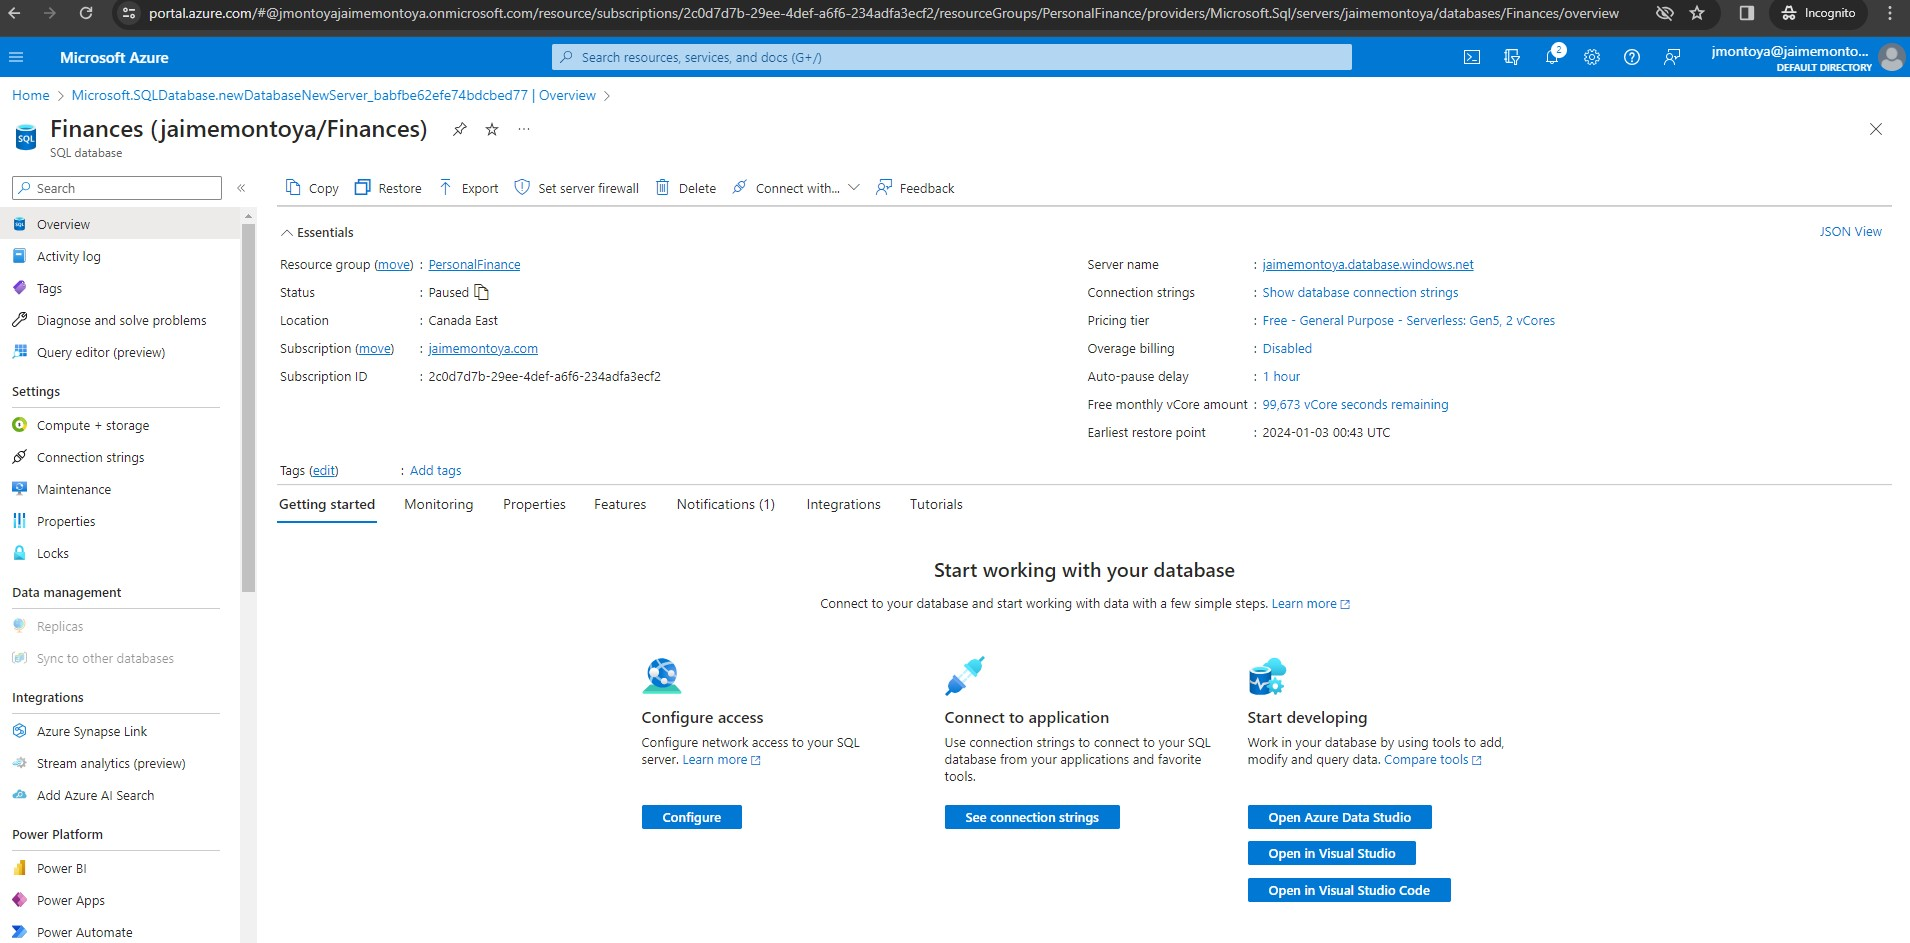
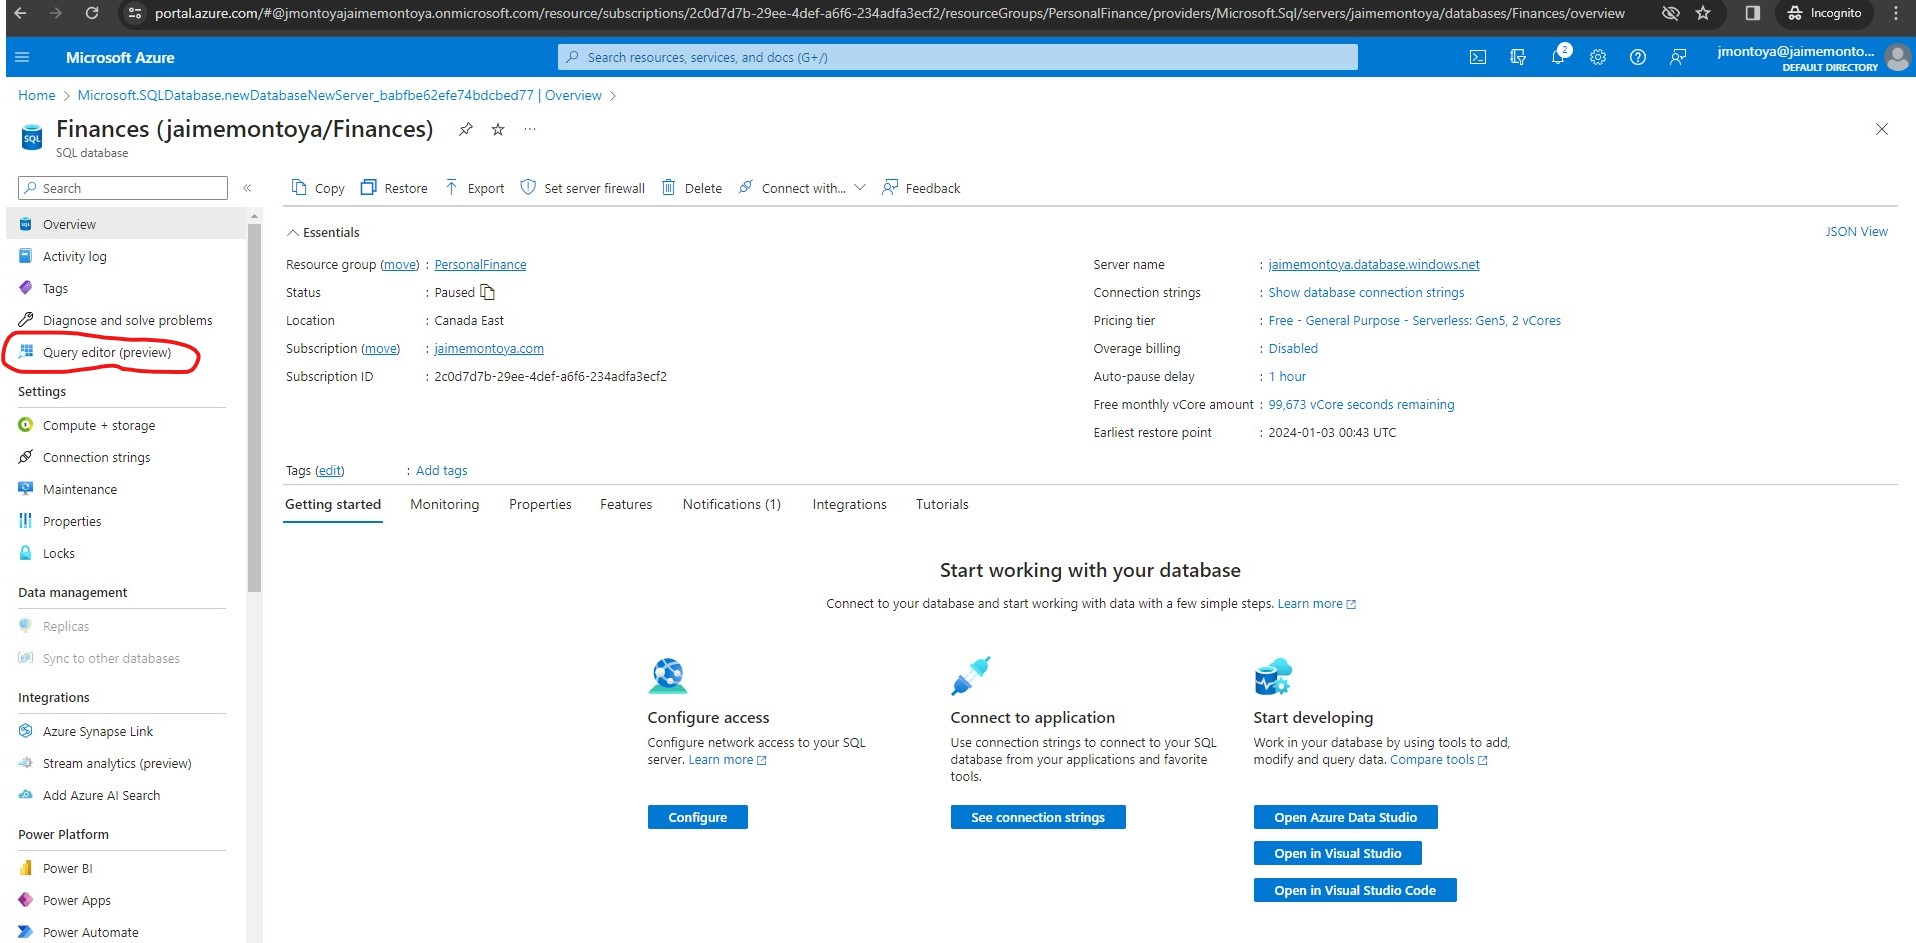
Highlight link.

diff --git a/blog/2023/12/17/11/41/book-info-20231217-1141.php b/blog/2023/12/17/11/41/book-info-20231217-1141.php
@@ -1,4 +1,4 @@
 <?php
   $index->content .= 
-           "<p>An Azure subscription was required. I visited <a href=\"https://azure.microsoft.com/free\">https://azure.microsoft.com/free</a> and signed in with a Microsoft account that I already had. That took me to the Azure portal. I selected <span class=\"cod\">＋ Create</span> a resource:</p><div><img src=\"/blog/2023/12/17/11/41/img/createAResource.jpg\" alt=\"Create a resource\" width=\"1161\" height=\"975\"></div><p>I searched for <span class=\"cod\">Azure SQL</span>:</p><div><img src=\"/blog/2023/12/17/11/41/img/searchForAzureSQL.jpg\" alt=\"Create a resource\" width=\"1206\" height=\"926\"></div><p>I clicked <span class=\"cod\">Create Azure SQL</span>:</p><div><img src=\"/blog/2023/12/17/11/41/img/createAzureSQLResource.jpg\" alt=\"Create Azure SQL Resource\" width=\"1904\" height=\"974\"></div><p>I clicked <span class=\"cod\">Start with an Azure free trial</span> to get $200 free credit toward Azure products and services, plus 12 months of popular free services:</p><div><img src=\"/blog/2023/12/17/11/41/img/startWithAnAzureFreeTrial.jpg\" alt=\"Start with an Azure free trial\" width=\"1898\" height=\"642\"></div><p>I clicked <span class=\"cod\">Start free</span>:</p><div><img src=\"/blog/2023/12/17/11/41/img/startFree.jpg\" alt=\"Start free\" width=\"1052\" height=\"733\"></div><p>I received a message saying that I already had an Azure account. I clicked <span class=\"cod\">Sign up for a Pay-As-You-Go subscription.</span></p><div><img src=\"/blog/2023/12/17/11/41/img/showThatIAlreadyHadAnAzureAccount.jpg\" alt=\"Show that I already had an Azure account\" width=\"1846\" height=\"392\"></div><p>I clicked <span class=\"cod\">Upgrade your account.</span></p><div><img src=\"/blog/2023/12/17/11/41/img/clickUpgradeYourAccount.jpg\" alt=\"Click Upgrade your account\" width=\"1260\" height=\"384\"></div><p>I provided my phone number for identity purposes and clicked <span class=\"cod\">Text me</span>:</p><div><img src=\"/blog/2023/12/17/11/41/img/providePhoneNumberForIdentityPurposes.jpg\" alt=\"Provide phone number for identity purposes\" width=\"1911\" height=\"526\"></div><p>I provided the code that I received on my phone and clicked <span class=\"cod\">Verify code</span>:</p><div><img src=\"/blog/2023/12/17/11/41/img/clickVerifyCode.jpg\" alt=\"Click Verify code\" width=\"1048\" height=\"648\"></div><p>I provided a subscription name, chose the <span class=\"cod\">Basic</span> support plan, and clicked <span class=\"cod\">Upgrade to pay as you go</span>:</p><div><img src=\"/blog/2023/12/17/11/41/img/upgradeToPayAsYouGo.jpg\" alt=\"Upgrade to pay as you go\" width=\"1909\" height=\"977\"></div><p>I received a message revealing that I had upgraded my account successfully. I followed the steps above one more time, to <span class=\"cod\">Create Azure SQL</span> resource. I reviewed the Azure SQL options that were available, and then in the <span class=\"cod\">SQL databases</span> tile, I ensured that <span class=\"cod\">Single database</span> was selected. Finally, I clicked <span class=\"cod\">Create</span> in the <span class=\"cod\">SQL databases</span> section, keeping <span class=\"cod\">Single instance</span> as the <span class=\"cod\">Resource type</span>:</p><div><img src=\"/blog/2023/12/17/11/41/img/createSQLDatabase.jpg\" alt=\"Create SQL managed instance\" width=\"1896\" height=\"821\"></div><p>I entered the following values on the Create SQL Database page, and left all other properties with their defaul setting:</p><ul><li><span class=\"bold\">Subscription:</span> jaimemontoya.com (because that was the name I gave to my Azure subscription).<li><span class=\"bold\">Resource group:</span> PersonalFinance (I created a new resource group with a name of my choice. A resource group is a container that holds related resources for an Azure solution.)<li><span class=\"bold\">Database name:</span> Finances<li><span class=\"bold\">Server:</span> I selected <span class=\"cod\">Create new</span> and created a new server with a unique name (<span class=\"cod\">jaimemontoya</span>) in the <span class=\"cod\">(Canada) Canada East</span> location. I used <span class=\"cod\">SQL authentication</span> and specified the name I wanted as my server admin login and a suitably complex password. Then I clicked <span class=\"cod\">OK</span>.<div><img src=\"/blog/2023/12/17/11/41/img/createSQLDatabaseServer.jpg\" alt=\"Create SQL Database Server\" width=\"1908\" height=\"986\"></div><li><span class=\"bold\">Want to use SQL elastic pool?:</span> No<li><span class=\"bold\">Workload environment:</span> Development<li><span class=\"bold\">Compute + storage:</span> Left unchanged<li><span class=\"bold\">Backup storage redundancy:</span> Locally-redundant backup storage</ul><p>I clicked <span class=\"cod\">Apply offer (Preview)</span>:</p><div><img src=\"/blog/2023/12/17/11/41/img/applyOffer.jpg\" alt=\"Apply Offer\" width=\"1037\" height=\"964\"></div><p>After applying the free database offer, the cost per month changed to <span class=\"cod\">0.00 USD</span>:</p><div><img src=\"/blog/2023/12/17/11/41/img/freeDatabaseOfferApplied.jpg\" alt=\"Free database offer applied\" width=\"1031\" height=\"966\"></div><p>Create SQL Database, Basics tab, part 1 of 2:</p><div><img src=\"/blog/2023/12/17/11/41/img/createSQLDatabaseBasicsTabPart1of2.jpg\" alt=\"Create SQL Database, Basics tab, part 1 of 2\" width=\"1896\" height=\"821\"></div><p>Create SQL Database, Basics tab, part 2 of 2:</p><div><img src=\"/blog/2023/12/17/11/41/img/createSQLDatabaseBasicsTabPart2of2.jpg\" alt=\"Create SQL Database, Basics tab, part 2 of 2\" width=\"825\" height=\"965\"></div><p>Create SQL Database, Networking tab:</p><div><img src=\"/blog/2023/12/17/11/41/img/createSQLDatabaseNetworkingTab.jpg\" alt=\"Create SQL Database, Networking tab\" width=\"1031\" height=\"963\"></div><p>Create SQL Database, Security tab, part 1 of 2:</p><div><img src=\"/blog/2023/12/17/11/41/img/createSQLDatabaseSecurityTabPart1of2.jpg\" alt=\"Create SQL Database, Security tab, part 1 of 2\" width=\"1027\" height=\"965\"></div><p>Create SQL Database, Security tab, part 2 of 2:</p><div><img src=\"/blog/2023/12/17/11/41/img/createSQLDatabaseSecurityTabPart2of2.jpg\" alt=\"Create SQL Database, Security tab, part 2 of 2\" width=\"1026\" height=\"966\"></div><p>Create SQL Database, Additional settings tab:</p><div><img src=\"/blog/2023/12/17/11/41/img/createSQLDatabaseAdditionalSettingsTab.jpg\" alt=\"Create SQL Database, Additional settings tab\" width=\"1026\" height=\"964\"></div><p>Create SQL Database, Tags tab:</p><div><img src=\"/blog/2023/12/17/11/41/img/createSQLDatabaseTagsTab.jpg\" alt=\"Create SQL Database, Tags tab\" width=\"1025\" height=\"963\"></div><p>Create SQL Database, Review + create tab, part 1 of 2:</p><div><img src=\"/blog/2023/12/17/11/41/img/createSQLDatabaseCreateAndReviewTabPart1Of2.jpg\" alt=\"Create SQL Database, Review + create tab, part 1 of 2\" width=\"1025\" height=\"961\"></div><p>Create SQL Database, Review + create tab, part 2 of 2. I clicked <span class=\"cod\">Create</span> to complete the process and create the database using the provided configurations:</p><div><img src=\"/blog/2023/12/17/11/41/img/createSQLDatabaseCreateAndReviewTabPart2Of2.jpg\" alt=\"Create SQL Database, Review + create tab, part 2 of 2\" width=\"504\" height=\"979\"></div><p>The <span class=\"cod\">Deployment in progress</span> message appeared:</p><div><img src=\"/blog/2023/12/17/11/41/img/showDeploymentInProgress.jpg\" alt=\"Show Deployment in progress\" width=\"1904\" height=\"667\"></div><p>Finally, I received the message notifying that the deployment was complete. I clicked <span class=\"cod\">Go to resource</span>:</p><div><img src=\"/blog/2023/12/17/11/41/img/deploymentComplete.jpg\" alt=\"Deployment complete\" width=\"1901\" height=\"713\"></div><p>My SQL Database resource was successfully created and available:</p><div><img src=\"/blog/2023/12/17/11/41/img/showDatabaseCreatedAndAvailable.jpg\" alt=\"Show database created and available\" width=\"1910\" height=\"943\"></div><div>Published: 11:41 AM GMT · Dec 17, 2023</div>\n";
+           "<p>An Azure subscription was required. I visited <a href=\"https://azure.microsoft.com/free\">https://azure.microsoft.com/free</a> and signed in with a Microsoft account that I already had. That took me to the Azure portal. I selected <span class=\"cod\">＋ Create</span> a resource:</p><div><img src=\"/blog/2023/12/17/11/41/img/createAResource.jpg\" alt=\"Create a resource\" width=\"1161\" height=\"975\"></div><p>I searched for <span class=\"cod\">Azure SQL</span>:</p><div><img src=\"/blog/2023/12/17/11/41/img/searchForAzureSQL.jpg\" alt=\"Create a resource\" width=\"1206\" height=\"926\"></div><p>I clicked <span class=\"cod\">Create Azure SQL</span>:</p><div><img src=\"/blog/2023/12/17/11/41/img/createAzureSQLResource.jpg\" alt=\"Create Azure SQL Resource\" width=\"1904\" height=\"974\"></div><p>I clicked <span class=\"cod\">Start with an Azure free trial</span> to get $200 free credit toward Azure products and services, plus 12 months of popular free services:</p><div><img src=\"/blog/2023/12/17/11/41/img/startWithAnAzureFreeTrial.jpg\" alt=\"Start with an Azure free trial\" width=\"1898\" height=\"642\"></div><p>I clicked <span class=\"cod\">Start free</span>:</p><div><img src=\"/blog/2023/12/17/11/41/img/startFree.jpg\" alt=\"Start free\" width=\"1052\" height=\"733\"></div><p>I received a message saying that I already had an Azure account. I clicked <span class=\"cod\">Sign up for a Pay-As-You-Go subscription.</span></p><div><img src=\"/blog/2023/12/17/11/41/img/showThatIAlreadyHadAnAzureAccount.jpg\" alt=\"Show that I already had an Azure account\" width=\"1846\" height=\"392\"></div><p>I clicked <span class=\"cod\">Upgrade your account.</span></p><div><img src=\"/blog/2023/12/17/11/41/img/clickUpgradeYourAccount.jpg\" alt=\"Click Upgrade your account\" width=\"1260\" height=\"384\"></div><p>I provided my phone number for identity purposes and clicked <span class=\"cod\">Text me</span>:</p><div><img src=\"/blog/2023/12/17/11/41/img/providePhoneNumberForIdentityPurposes.jpg\" alt=\"Provide phone number for identity purposes\" width=\"1911\" height=\"526\"></div><p>I provided the code that I received on my phone and clicked <span class=\"cod\">Verify code</span>:</p><div><img src=\"/blog/2023/12/17/11/41/img/clickVerifyCode.jpg\" alt=\"Click Verify code\" width=\"1048\" height=\"648\"></div><p>I provided a subscription name, chose the <span class=\"cod\">Basic</span> support plan, and clicked <span class=\"cod\">Upgrade to pay as you go</span>:</p><div><img src=\"/blog/2023/12/17/11/41/img/upgradeToPayAsYouGo.jpg\" alt=\"Upgrade to pay as you go\" width=\"1909\" height=\"977\"></div><p>I received a message revealing that I had upgraded my account successfully. I followed the steps above one more time, to <span class=\"cod\">Create Azure SQL</span> resource. I reviewed the Azure SQL options that were available, and then in the <span class=\"cod\">SQL databases</span> tile, I ensured that <span class=\"cod\">Single database</span> was selected. Finally, I clicked <span class=\"cod\">Create</span> in the <span class=\"cod\">SQL databases</span> section, keeping <span class=\"cod\">Single instance</span> as the <span class=\"cod\">Resource type</span>:</p><div><img src=\"/blog/2023/12/17/11/41/img/createSQLDatabase.jpg\" alt=\"Create SQL managed instance\" width=\"1896\" height=\"821\"></div><p>I entered the following values on the Create SQL Database page, and left all other properties with their defaul setting:</p><ul><li><span class=\"bold\">Subscription:</span> jaimemontoya.com (because that was the name I gave to my Azure subscription).<li><span class=\"bold\">Resource group:</span> PersonalFinance (I created a new resource group with a name of my choice. A resource group is a container that holds related resources for an Azure solution.)<li><span class=\"bold\">Database name:</span> Finances<li><span class=\"bold\">Server:</span> I selected <span class=\"cod\">Create new</span> and created a new server with a unique name (<span class=\"cod\">jaimemontoya</span>) in the <span class=\"cod\">(Canada) Canada East</span> location. I used <span class=\"cod\">SQL authentication</span> and specified the name I wanted as my server admin login and a suitably complex password. Then I clicked <span class=\"cod\">OK</span>.<div><img src=\"/blog/2023/12/17/11/41/img/createSQLDatabaseServer.jpg\" alt=\"Create SQL Database Server\" width=\"1908\" height=\"986\"></div><li><span class=\"bold\">Want to use SQL elastic pool?:</span> No<li><span class=\"bold\">Workload environment:</span> Development<li><span class=\"bold\">Compute + storage:</span> Left unchanged<li><span class=\"bold\">Backup storage redundancy:</span> Locally-redundant backup storage</ul><p>I clicked <span class=\"cod\">Apply offer (Preview)</span>:</p><div><img src=\"/blog/2023/12/17/11/41/img/applyOffer.jpg\" alt=\"Apply Offer\" width=\"1037\" height=\"964\"></div><p>After applying the free database offer, the cost per month changed to <span class=\"cod\">0.00 USD</span>:</p><div><img src=\"/blog/2023/12/17/11/41/img/freeDatabaseOfferApplied.jpg\" alt=\"Free database offer applied\" width=\"1031\" height=\"966\"></div><p>Create SQL Database, Basics tab, part 1 of 2:</p><div><img src=\"/blog/2023/12/17/11/41/img/createSQLDatabaseBasicsTabPart1of2.jpg\" alt=\"Create SQL Database, Basics tab, part 1 of 2\" width=\"1896\" height=\"821\"></div><p>Create SQL Database, Basics tab, part 2 of 2:</p><div><img src=\"/blog/2023/12/17/11/41/img/createSQLDatabaseBasicsTabPart2of2.jpg\" alt=\"Create SQL Database, Basics tab, part 2 of 2\" width=\"825\" height=\"965\"></div><p>Create SQL Database, Networking tab:</p><div><img src=\"/blog/2023/12/17/11/41/img/createSQLDatabaseNetworkingTab.jpg\" alt=\"Create SQL Database, Networking tab\" width=\"1031\" height=\"963\"></div><p>Create SQL Database, Security tab, part 1 of 2:</p><div><img src=\"/blog/2023/12/17/11/41/img/createSQLDatabaseSecurityTabPart1of2.jpg\" alt=\"Create SQL Database, Security tab, part 1 of 2\" width=\"1027\" height=\"965\"></div><p>Create SQL Database, Security tab, part 2 of 2:</p><div><img src=\"/blog/2023/12/17/11/41/img/createSQLDatabaseSecurityTabPart2of2.jpg\" alt=\"Create SQL Database, Security tab, part 2 of 2\" width=\"1026\" height=\"966\"></div><p>Create SQL Database, Additional settings tab:</p><div><img src=\"/blog/2023/12/17/11/41/img/createSQLDatabaseAdditionalSettingsTab.jpg\" alt=\"Create SQL Database, Additional settings tab\" width=\"1026\" height=\"964\"></div><p>Create SQL Database, Tags tab:</p><div><img src=\"/blog/2023/12/17/11/41/img/createSQLDatabaseTagsTab.jpg\" alt=\"Create SQL Database, Tags tab\" width=\"1025\" height=\"963\"></div><p>Create SQL Database, Review + create tab, part 1 of 2:</p><div><img src=\"/blog/2023/12/17/11/41/img/createSQLDatabaseCreateAndReviewTabPart1Of2.jpg\" alt=\"Create SQL Database, Review + create tab, part 1 of 2\" width=\"1025\" height=\"961\"></div><p>Create SQL Database, Review + create tab, part 2 of 2. I clicked <span class=\"cod\">Create</span> to complete the process and create the database using the provided configurations:</p><div><img src=\"/blog/2023/12/17/11/41/img/createSQLDatabaseCreateAndReviewTabPart2Of2.jpg\" alt=\"Create SQL Database, Review + create tab, part 2 of 2\" width=\"504\" height=\"979\"></div><p>The <span class=\"cod\">Deployment in progress</span> message appeared:</p><div><img src=\"/blog/2023/12/17/11/41/img/showDeploymentInProgress.jpg\" alt=\"Show Deployment in progress\" width=\"1904\" height=\"667\"></div><p>Finally, I received the message notifying that the deployment was complete. I clicked <span class=\"cod\">Go to resource</span>:</p><div><img src=\"/blog/2023/12/17/11/41/img/deploymentComplete.jpg\" alt=\"Deployment complete\" width=\"1901\" height=\"713\"></div><p>My SQL Database resource was successfully created and available. I clicked <span class=\"cod\">Query editor (preview)</span>:</p><div><img src=\"/blog/2023/12/17/11/41/img/showDatabaseCreatedAndAvailable.jpg\" alt=\"Show database created and available\" width=\"1910\" height=\"943\"></div><div>Published: 11:41 AM GMT · Dec 17, 2023</div>\n";
 ?>
